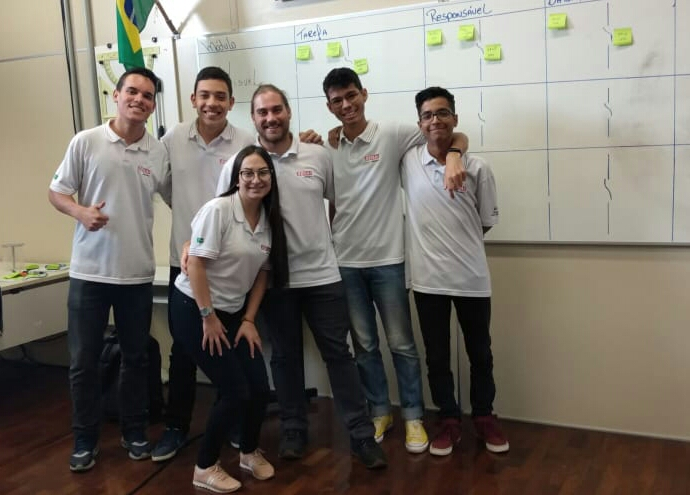
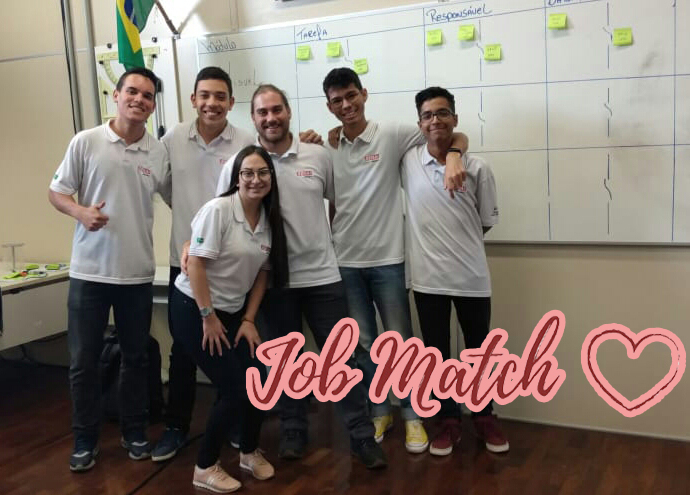
quase pronto

Changed region(s): [[0.3348, 0.6061, 1.0, 0.8485]]

diff --git a/semana-da-tecnologia/index.html b/semana-da-tecnologia/index.html
@@ -28,12 +28,12 @@
         <div class="backgroud-section">
             <div class="opacidade ">
                 <div class="carousel">
-                    <a class="carousel-item" href="#one!"><img src="img/transferir.jpg"> <h2 class=" text-indigo darken-2 center">FORUM</h2></a>
-                    <a class="carousel-item" href="#two!">  <img src="img/MECA_HACK.png"> <h2 class="white-text center">EVENTOS COMPETITIVOS</h2></a>
-                    <a class="carousel-item" href="#three!">  <img src="img/Ciclo-de-palestras-do-Rota-do-Reparador-retoma-sua-jornada (5).jpg"> <h2 class=" center text-indigo darken-2">PALESTRAS E EVENTOS</h2></a>
+                    <a class="carousel-item" href="#one!"><img src="img/FORUM2.png"> <h2 class=" text-indigo darken-2 center">EVENTOS PROFISSIONAIS</h2></a>
+                    <a class="carousel-item" href="#two!">  <img src="img/MECA_HACK2.png"> <h2 class="white-text center">EVENTOS COMPETITIVOS</h2></a>
+                    <a class="carousel-item" href="#three!">  <img src="img/Ciclo-de-palestras-do-Rota-do-Reparador-retoma-sua-jornada (5).jpg"> <h2 class=" center text-indigo darken-2">PALESTRAR SOBRE NOVAS TECNOLOGIAS</h2></a>
                     <a class="carousel-item" href="#four!"><img src="img/empresas.png"> <h2 class="white-text center"> PRESENÇA DAS MAIORES EMPRESAS</h2></a>
-                    <a class="carousel-item" href="#five!"><img src="img/image005.jpg"> <h2 class="text-indigo darken-2 center">NOVIDADES TECNOLÓGICAS</h2></a>
-                    <a class="carousel-item" href="#five!"><img src="img/image005.jpg"> <h2 class="white-text darken-2 center">NOVIDADES TECNOLÓGICAS</h2></a>
+                    <a class="carousel-item" href="#five!"><img src="img/image005.jpg"> <h2 class="text-indigo darken-2 center">APRESENTAÇÃO DE NOVAS OPORTUNIDADES</h2></a>
+                    <a class="carousel-item" href="#five!"><img src="img/MUNDO SENAI2.png"> <h2 class="white-text darken-2 center">VISITA À ESCOLA</h2></a>
                 </div>
             </div>
         </div>
@@ -98,17 +98,19 @@
         </div>
        
             <div class="row">
-                <h1 class="center">NOVIDADES TECNOLÓGICAS</h1>
-                    <div class="carousel carousel-slider">
-                        <a class="carousel-item" href="#one!">
+                <h1 class="center">NOVIDADES SENAI</h1>
+                    <div class="carousel carousel-slider ">
+                        <a class="carousel-item " href="#one!">
                             <div class="container pd-top">
-                                <div class="col s6 justify">
-                                    <h3>Projeto Turma do Marcel</h3><br>
-                                    <p class="">Projeto que reprojetará projetos projetados previamente</p>
+                                <div class="col s6 justify black-text">
+                                    <h3 class="black-text red darken-1 white-text">JOB MATCH</h3>
+                                    
+                                    <p class="flow-text black-text">O Job Match veio para ajudar todos, mas principalmente os alunos que buscam seu primeiro contato com o mercado de trabalho. A idéia principal do projeto é ligar o empregador ao candidato à vaga de uma forma moderna e dinâmica, utilizando os conceitos de "swipe" e "match" para buscar e encontrar a vaga que mais encaixa com seu perfil</p>
+                        
                                 </div>
                                 <div class="col s6">
                                     <div class="cont_container">
-                                        <img src="img/senai-logo.png" class="image-dimension">
+                                        <img src="img/edu.jpeg" class="image-dimension">
                                     </div>
                                 </div>
                             </div>
@@ -116,88 +118,119 @@
                         <a class="carousel-item" href="#two!">
                             <div class="container pd-top">
                                 <div class="col s6 justify">
-                                    <h3>Projeto Turma do Marcel</h3><br>
-                                    <p class="">Projeto que reprojetará projetos projetados previamente</p>
+                                    <h3 class="black-text red darken-1 white-text">INSTENAI</h3>
+                                    <h6 class="flow-text black-text">Outro projeto incrível desenvolvido por alunos, é o INSTENAI, um aplicativo que cria filtros divertidos para suas fotos!
+                                    </h6>
+                                    <p class="flow-text black-text"></p>
+                                    <p class="flow-text black-text"> " -Participar de um projeto no Senai com o apoio dos professores e todos os colegas foi sensasional! Ajudando a fazer o backend do Instenai foi um novo desafio e cada dificuldade gera um novo aprendizado. No fim a sensação de missão cumprida é a recompensa por todo esforço. "</p>
                                 </div>
                                 <div class="col s6">
-                                    <div class="cont_container">
-                                        <img src="img/senai-logo.png" class="image-dimension">
-                                    </div>
-                                </div>
-                            </div>
-                        </a>
-                        <a class="carousel-item" href="#three!">
-                            <div class="container pd-top">
-                                <div class="col s6 justify">
-                                    <h3>Projeto Turma do Marcel</h3><br>
-                                    <p class="">Projeto que reprojetará projetos projetados previamente</p>
-                                </div>
-                                <div class="col s6">
-                                    <div class="cont_container">
-                                        <img src="img/senai-logo.png" class="image-dimension">
-                                    </div>
-                                </div>
-                            </div>
-                        </a>
-                        <a class="carousel-item" href="#four!">
-                            <div class="container pd-top">
-                                <div class="col s6 justify">
-                                    <h3>Projeto Turma do Marcel</h3><br>
-                                    <p class="">Projeto que reprojetará projetos projetados previamente</p>
-                                </div>
-                                <div class="col s6">
-                                    <div class="cont_container">
-                                        <img src="img/senai-logo.png" class="image-dimension">
+                                    <div class="cont_container-inst" >
+                                        <img src="QRCODEINSTENAI.png" class="imgqrcode" alt="INSTENAI">
                                     </div>
                                 </div>
                             </div>
                         </a>
                     </div>
-                <!-- <div class="container">
-                    <h1 class="center">NOVIDADES TECNOLÓGICAS</h1>
-                    <div class="col s4">
-                        <div class="card">
-                                <div class="card-image waves-effect waves-block waves-light">
-                                    <img class="activator" src="img/job.jpeg">
-                                </div>
-                                <div class="card-content">
-                                    <span class="card-title activator grey-text text-darken-4">Card Title<i class="material-icons right">more_vert</i></span>
-                                    <p><a href="#">This is a link</a></p>
-                                </div>
-                                <div class="card-reveal">
-                                    <span class="card-title grey-text text-darken-4">Card Title<i class="material-icons right">close</i></span>
-                                    <p>Here is some more information about this product that is only revealed once clicked on.</p>
-                                </div>
-                        </div>
-                    </div>
-                    
-                </div> -->
             </div>
-            <div class="row pd-top-maximums">
+            <div class="row pd-top-maximums" style="background-image: linear-gradient(#2196f3  , #0d47a1);">
                 <div class="col s12 backgroud-section">
+                        <h1 class="titulo"> ALGUMAS EMPRESAS QUE ESTARÃO NO EVENTO</h1>
                     <div class="container-card">
-                        <div class="card-radius">
+                        
+                        <div class="cont-box">
+                            <div class="card-radius" style="background-image: url('img/itau.png'); background-position: center; background-repeat: no-repeat;">
+                                
+                            </div>
+                            <h5 class="center texto">Jailson Mendes</h5>
+                            <h5 class="center texto">ET bilu</h5>
+                            <h5 class="center texto">Arroz</h5>
 
                         </div>
-                        <h5 class="center">Jailson Mendes</h5>
-                        <h5 class="center">ET bilu</h5>
-                        <h5 class="center">Arroz</h5>
+                            
+                        <div class="cont-box">
+                            <div class="card-radius" style="background-image: url('img/volks.png'); background-position: center; background-repeat: no-repeat;">
+                        
+                            </div>
+                            <h5 class="center texto">Jailson Mendes</h5>
+                            <h5 class="center texto">ET bilu</h5>
+                            <h5 class="center texto">Arroz</h5>
+
+                        </div>
+                        <div class="cont-box">
+                            <div class="card-radius" style="background-image: url('img/everis.png'); background-position: center; background-repeat: no-repeat; background-size: contain;">
+                        
+                            </div>
+                            <h5 class="center texto">Jailson Mendes</h5>
+                            <h5 class="center texto">ET bilu</h5>
+                            <h5 class="center texto">Arroz</h5>
+
+                        </div>
+                        <div class="cont-box">
+                            <div class="card-radius" style="background-image: url('img/houpa.png'); background-position: center; background-repeat: no-repeat; background-size: contain;">
+                        
+                            </div>
+                            <h5 class="center texto">Jailson Mendes</h5>
+                            <h5 class="center texto">ET bilu</h5>
+                            <h5 class="center texto">Arroz</h5>
+
+                        </div>
+                        <div class="cont-box">
+                            <div class="card-radius" style="background-image: url('img/brq.png'); background-position: center; background-repeat: no-repeat;">
+                        
+                            </div>
+                            <h5 class="center texto">Jailson Mendes</h5>
+                            <h5 class="center texto">ET bilu</h5>
+                            <h5 class="center texto">Arroz</h5>
+
+                        </div>
+
+                        
+                    </div>
+                </div>
+            </div>
+            <div class="row">
+                <div class="container">
+                    <div class="col s6">
+                        <img src="img/MUNDO SENAI2.png" class="mundosenai" alt="MUNDO SENAI">
+                    </div>
+                    <div class="col s6">
+                        <h1 class="headind1">
+                            VISITE NOSSA ESCOLA
+                        </h1>
+                        <h4 class="flow-text">
+                            O SENAI Jandira nos dias 21 e 22 de novembro, abrirá as postar para visitantes!
+                        </h4>
+                        <h4 class="flow-text">
+                            Não perca a oportunidade de visitar nossa incrível escola e experimentar alguns de nossos cursos.
+                        </h4>
+                        <h4 class="flow-text">
+                            O Tour pela escola mostrará todos os cursos disponiveis de acordo com nossas instalações e os visitantes participarão de ativadades demonstrativas de cada área.
+                        </h4>
+                        <h3> QUEREMOS DISPERTAR O PROFISSIONAL DENTRO DE VOCÊ!</h3>
+                        <h4 class="flow-text">
+                            Fique atendo as datas de agendamento e traga sua turma.
+                        </h4>
+                    </div>
+                </div>
+            </div>
+            <div class="row">
+                <div class="container">
+                    <div class="col s6 ">
+                        <h1 class="headind1">
+                                Primeiro fórum sobre o perfil ideal do profissional recém formado!
+                        </h1>
+                        <h4 class="flow-text">
+                           Um evento que contará com diretores, gestores e lideres das maiores empresas da região. Para comentar sobre quais qualidades nossos alunos precisarão desenvolver para ingressarem no mercado de trabalho, após estarem formados.
+                        </h4>
+                </div> 
+                    
+                    <div class="col s6">
+                        <img src="img/FORUM2.png" alt="FORUM">
                     </div>
                 </div>
             </div>
       
-
-
-
-
-
-
-
-
-
-
-
-
 
         <script src="https://ajax.googleapis.com/ajax/libs/jquery/2.1.3/jquery.min.js" type="text/javascript"></script>
         <script src="./js/materialize.min.js"></script>

diff --git a/semana-da-tecnologia/css/style.css b/semana-da-tecnologia/css/style.css
@@ -25,10 +25,10 @@ body{
 }
 .backgroud-section{
     width: 100%;
-    height: 550px;
+    height: 600px;
     background-image: url('../img/FUNDO.png');
-    background-size: contain;
-    background-repeat: repeat-x;
+    background-size: cover;
+    background-repeat: no-repeat;
     background-position: center;
     box-sizing: border-box;
 }
@@ -55,8 +55,8 @@ body{
     border-radius: 30px;
 }
 #logo-semana{
-    width: 530px;
-    height: 350px;
+    width: 400px;
+    height: 300px;
     margin-top: 25px;
     margin-bottom: 25px;
 }
@@ -78,8 +78,11 @@ body{
 }
 
 .pd-top-maximums {
-    padding-top: 200px;
+    padding-top: 50px;
     box-sizing: border-box;
+    display:flex ;
+    align-items: center;
+    margin-bottom: 0;
 }
 
 .justify {
@@ -89,22 +92,55 @@ body{
 .image-dimension {
     width: 600px;
     height: 400px;
+    
 }
 
-.cont_container {
+.cont_container,
+.cont_container-inst {
     width: 100%;
     height: 100%;
+    display: flex;
+    align-self: center;
+}
+.cont_container-inst{
+    justify-content: center;
+    align-items: center;
+}
+.imgqrcode{
+    width: 300px;
+    height: 350px;
 }
 
 .card-radius {
-    width: 250px;
-    height: 250px;
-    border-radius: 125px;
-    background-color: black;
+    width: 200px;
+    height: 200px;
+    border-radius: 100px;
+    background-color: white;
+}
+.card-radius img {
+    width: inherit;
+    height: inherit;
+    border-radius: inherit;
 }
 
 .container-card {
-    width: 250px;
+    width: 1200px;
     height: 350px;
     margin: 50px;
+    display: flex;
+    justify-content: space-between;
+    margin: auto;
+}
+.cont-box{
+    width: 200px;
+    height: 400px;
+}
+.titulo{
+    text-align: center;
+    font-weight: bold;
+    color:#fff;
+}
+.texto{
+    font-weight: bold;
+    color: #fff;
 }

diff --git a/semana-da-tecnologia/css/materialize.css b/semana-da-tecnologia/css/materialize.css
@@ -3430,7 +3430,7 @@ table span.badge {
 
 .container {
   margin: 0 auto;
-  max-width: 1280px;
+  max-width: 1400px;
   width: 90%;
 }
 
@@ -8363,7 +8363,7 @@ input[type=range]::-ms-thumb {
   overflow: hidden;
   position: relative;
   width: 100%;
-  height: 600px;
+  height: 500px;
   -webkit-perspective: 500px;
           perspective: 500px;
   -webkit-transform-style: preserve-3d;
